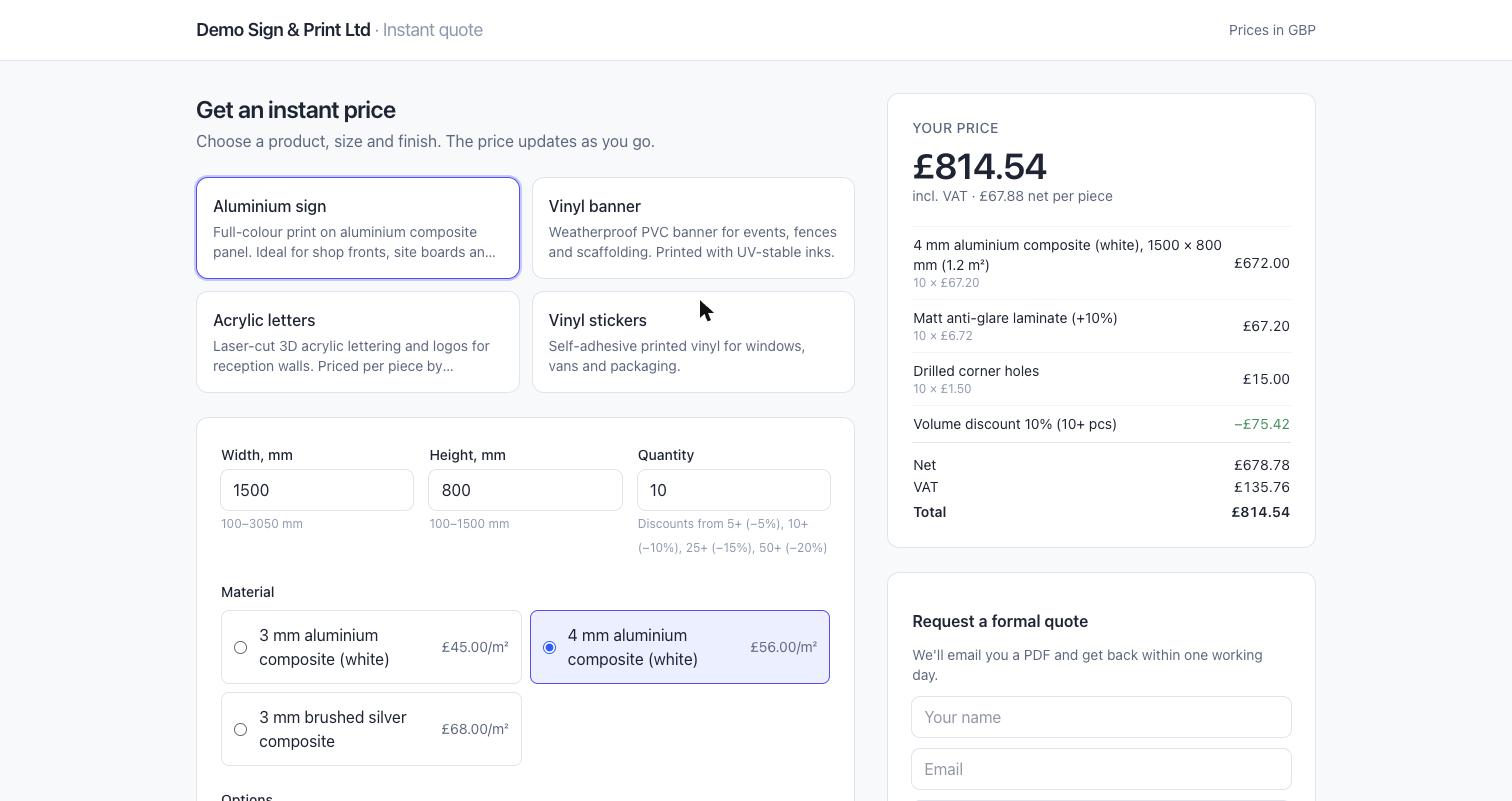
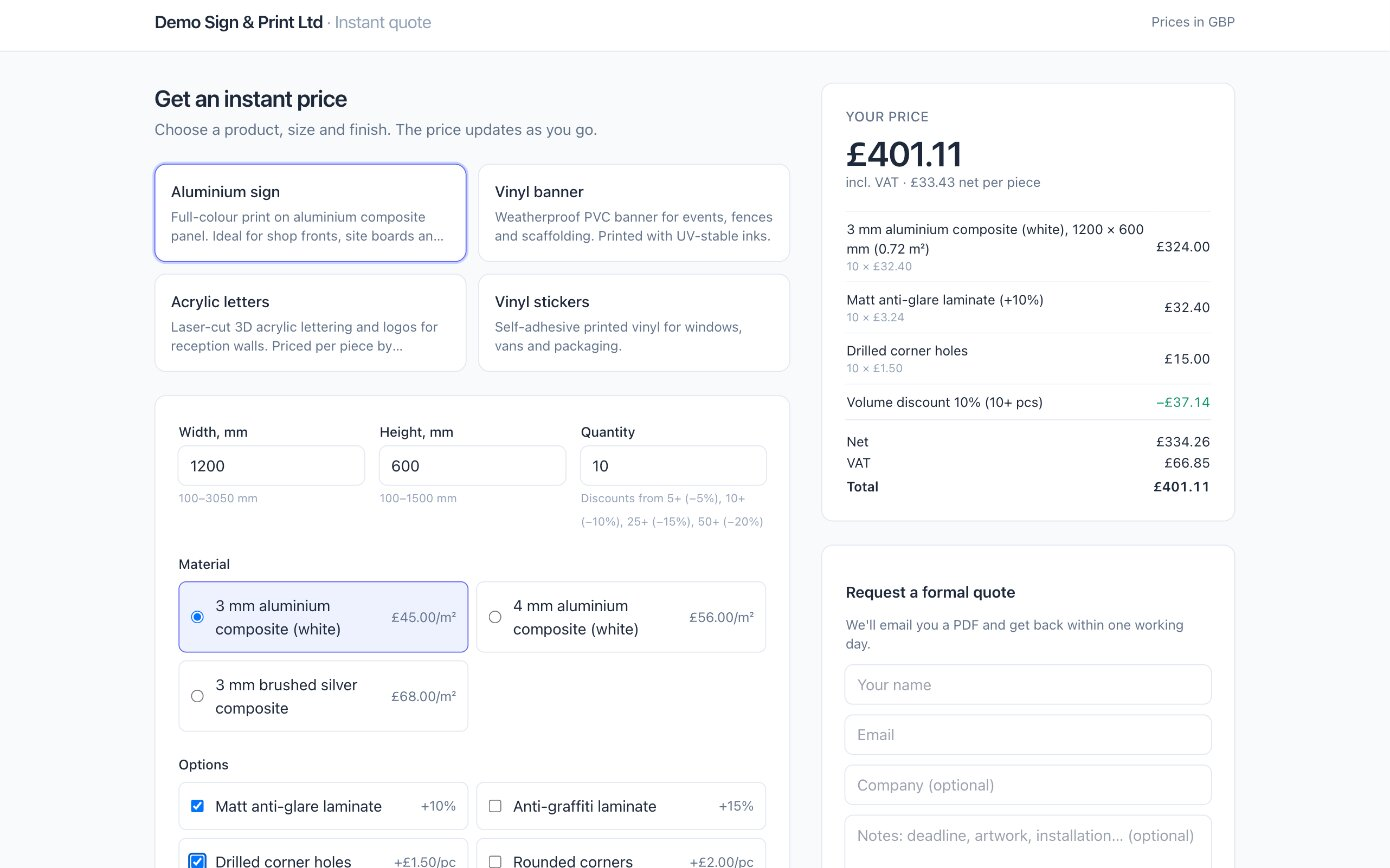
docs: admin dashboard and quote screenshots

diff --git a/README.md b/README.md
@@ -18,8 +18,9 @@ The same pricing engine is exposed through a small REST API, so the calculator c
 |---|---|
 | ![Calculator](docs/screenshots/calculator.jpg) | ![Quote](docs/screenshots/quote.jpg) |
 
----|---|---|---|
-| `docs/screenshots/calculator.png` | `docs/screenshots/quote.png` | `docs/screenshots/admin-quotes.png` | `docs/screenshots/admin-product.png` |
+| Admin dashboard: quote stats and quotes per day (Filament) | Admin quote view with line-by-line breakdown and status actions |
+|---|---|
+| ![Dashboard](docs/screenshots/dashboard.jpg) | ![Admin quote](docs/screenshots/admin-quote.jpg) |
 
 ---
 
